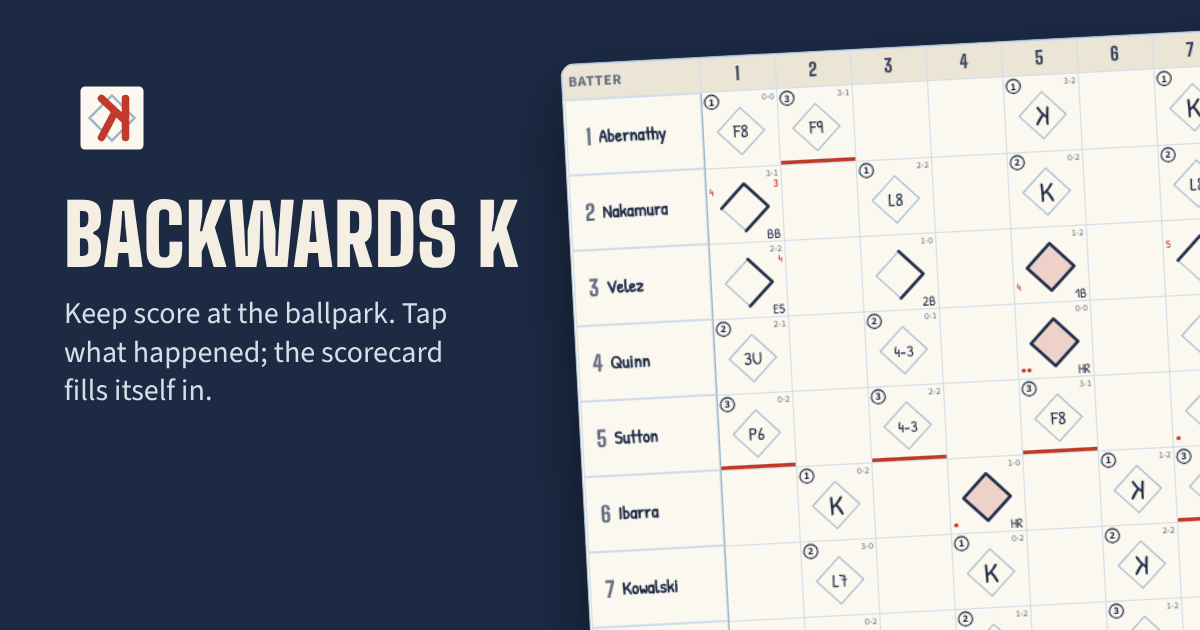
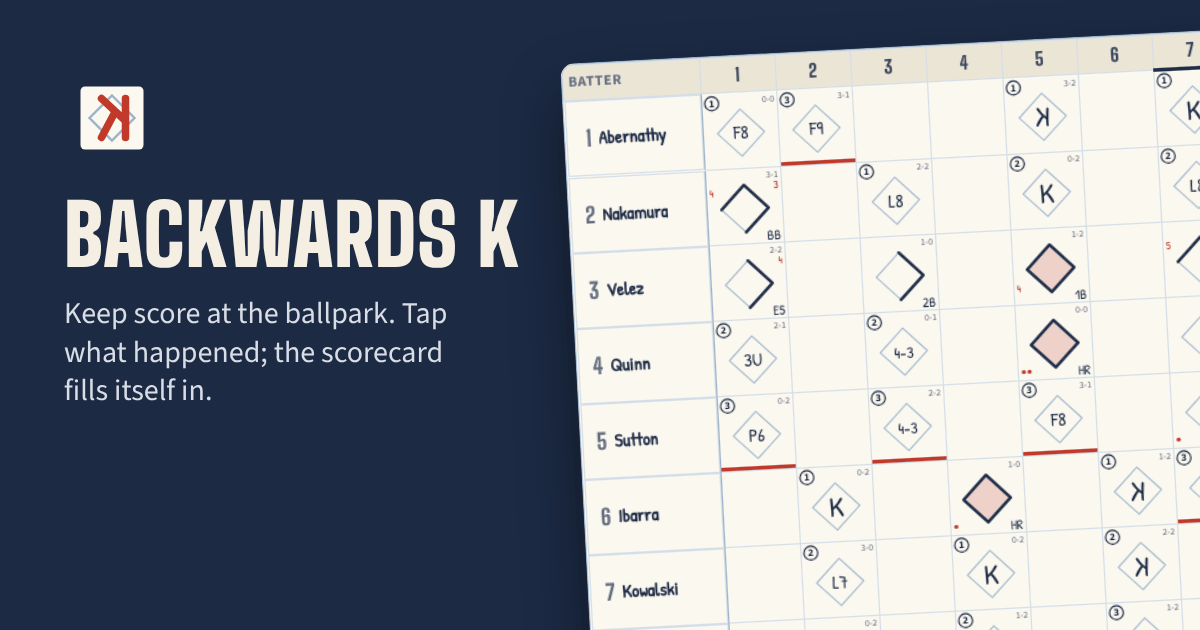
The card shows where a new pitcher took over and a substitute came in
Pitching changes left no mark on the card, and substitutes showed only as
a list of names, so nothing said which boxes were whose or when each came
in. As on a paper card, the first box a new pitcher faced now has a heavy
line along its top (its title and the box's description name him), the
first box a substitute bats in has a heavy line down its left, and each
substitute's name has the inning he came in beside PH, PR or "in". The
lines are drawn on the grid, so they print and stay clear of the out
circle and the count. All of it comes from the game's events; nothing saved
changes. The help sheet explains both lines, and the README pictures and
the link preview are redrawn.

Claude-Session: https://claude.ai/code/session_0157za5jQT97q7xA8DmFNyQL

diff --git a/js/card.js b/js/card.js
@@ -1,6 +1,6 @@
 // The scorecard: one row per spot in the batting order, one column per inning, and in each box a small diamond
 // with the batter's trip around the bases drawn the way it's done on paper.
-import { RESULTS, columns, innings, label, player, batKey, ord } from './engine.js';
+import { RESULTS, columns, innings, label, player, batKey, ord, pitcherLabel } from './engine.js';
 import { esc } from './ui.js';
 
 // The diamond in a 60 x 60 box: home, first, second, third.
@@ -64,9 +64,28 @@ function subsOf(g, side) {
 
 const TYPE = { ph: 'PH', pr: 'PR', def: 'in' };
 
+// As on paper: a heavy line along the top of the first box a new pitcher faced, and down the left of a substitute's
+// first box. Gives the boxes' numbers, with the pitcher's name for the first.
+function changes(S, side) {
+  const g = S.g, mine = S.cells.filter(c => c.side === side), pch = new Map(), sub = new Set();
+  g.ev.forEach((e, j) => {
+    // (A change before anyone on this side batted has nothing to mark.)
+    if (e.t === 'pch' && e.s !== side && mine.some(c => c.ev < j)) {
+      const c = mine.find(c => c.ev > j);
+      if (c) pch.set(c.n, pitcherLabel(g, e.s, e.i));
+    }
+    if (e.t === 'sub' && e.s === side) {
+      const c = mine.find(c => c.ev > j && c.slot === e.slot && c.p === e.i);
+      if (c) sub.add(c.n);
+    }
+  });
+  return { pch, sub };
+}
+
 // The card for one team. live: mark where the next batter goes.
 export function cardHtml(S, side, { live = true } = {}) {
-  const g = S.g, cols = columns(S, side), subs = subsOf(g, side);
+  const g = S.g, cols = columns(S, side), subs = subsOf(g, side), marks = changes(S, side);
+  const innOf = new Map(S.plays.filter(p => p.kind === 'sub').map(p => [p.i, p.inn]));
   const at = new Map();
   for (const c of S.cells) if (c.side === side) at.set(`${c.slot}:${c.inn}:${c.k}`, c);
   // Where the batter now at the plate will go.
@@ -91,13 +110,15 @@ export function cardHtml(S, side, { live = true } = {}) {
     h += `<tr${nowAt ? ' class="up"' : ''}><th class="who" scope="row"><span class="ord">${slot + 1}</span><span class="names">`;
     shown.forEach((pi, j) => {
       const p = players[pi] || players[0], e = j ? subs[slot][j - 1] : null;
-      h += `<span class="pl${j < shown.length - 1 ? ' was' : ''}">${e ? `<i>${TYPE[e.ty]}</i> ` : ''}${esc(label(p, slot))}</span>`;
+      const inn = e && innOf.get(g.ev.indexOf(e));
+      h += `<span class="pl${j < shown.length - 1 ? ' was' : ''}">${e ? `<i>${TYPE[e.ty]}${inn ? ' ' + ord(inn) : ''}</i> ` : ''}${esc(label(p, slot))}</span>`;
     });
     h += '</span></th>';
     for (const col of cols) {
       const k = `${slot}:${col.inn}:${col.k}`, c = at.get(k);
-      const cls = [c && c.end ? 'end' : '', k === next ? 'next' : '', col.inn === curInn ? 'cur' : ''].filter(Boolean).join(' ');
-      h += `<td${cls ? ` class="${cls}"` : ''}>${c ? `<button type="button" class="box" data-cell="${c.n}" aria-label="${esc(c.text)}">${cellSvg(c, { count: g.pitches })}</button>` : ''}</td>`;
+      const who = c && marks.pch.get(c.n), from = who ? `${who} pitching from here` : '';
+      const cls = [c && who ? 'pch' : '', c && marks.sub.has(c.n) ? 'sub' : '', c && c.end ? 'end' : '', k === next ? 'next' : '', col.inn === curInn ? 'cur' : ''].filter(Boolean).join(' ');
+      h += `<td${cls ? ` class="${cls}"` : ''}${from ? ` title="${esc(from)}"` : ''}>${c ? `<button type="button" class="box" data-cell="${c.n}" aria-label="${esc(c.text + (from ? ` ${from}.` : ''))}">${cellSvg(c, { count: g.pitches })}</button>` : ''}</td>`;
     }
     const t = { ab: 0, r: 0, h: 0, rbi: 0 };
     shown.forEach(pi => { const b = S.bat[batKey(side, slot, pi)]; if (b) for (const x in t) t[x] += b[x]; });

diff --git a/js/help.js b/js/help.js
@@ -43,7 +43,9 @@ export function helpSheet() {
       <dt>A small number</dt><dd>Moved up on that batter’s play (by their place in the order)</dd>
       <dt>2-1</dt><dd>The count when the at-bat ended (balls, then strikes)</dd>
       <dt>Red line</dt><dd>Under the last batter of an inning</dd>
-      <dt>PH, PR, in</dt><dd>Pinch hitter, pinch runner, a substitute in the field. A crossed-out name has left the game</dd>
+      <dt>A heavy line on top</dt><dd>A new pitcher took over with that batter</dd>
+      <dt>A heavy line on the left</dt><dd>A substitute’s first time up</dd>
+      <dt>PH, PR, in</dt><dd>Pinch hitter, pinch runner, a substitute in the field, with the inning they came in. A crossed-out name has left the game</dd>
       <dt>R H E LOB</dt><dd>Under the card, inning by inning: runs, hits, the other team’s errors, and runners left on base</dd>
       <dt>X</dt><dd>On the line score: the home team didn’t need to bat</dd>
     </dl>

diff --git a/css/app.css b/css/app.css
@@ -474,6 +474,9 @@ details.lineup summary small { color: var(--muted); font-weight: 400; }
 .card td.cur { background: color-mix(in srgb, var(--now) 45%, transparent); }
 .card td.next { box-shadow: inset 0 0 0 2px var(--red); }
 .card td.end { box-shadow: inset 0 -3px 0 var(--red); }
+/* A new pitcher (a heavy line along the top) and a substitute's first time up (down the left), drawn on the grid. */
+.card td.pch { border-top: 3px solid var(--pencil); }
+.card td.sub { border-left: 3px solid var(--pencil); }
 .card td.next.end { box-shadow: inset 0 0 0 2px var(--red), inset 0 -3px 0 var(--red); }
 .card .tot { width: 34px; min-width: 34px; font: 700 16px/1 var(--board-font); color: var(--ink-2); background: var(--soft); }
 .card thead .tot { font-size: 13px; }
